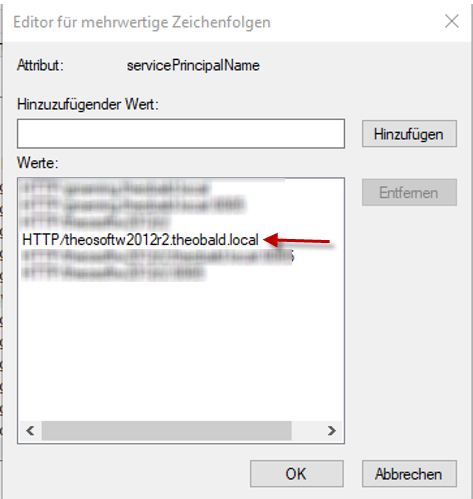
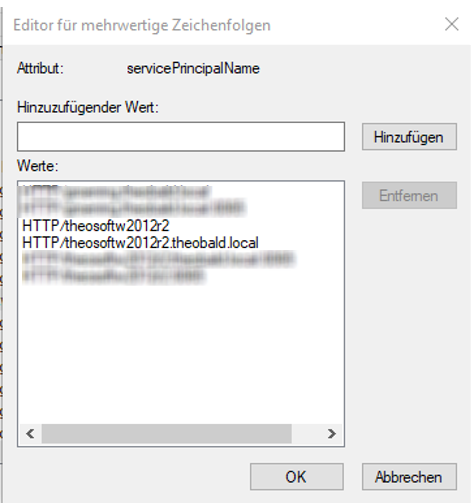
XU:DE:Fortgeschrittene Techniken...SSO.

diff --git a/content/_de/xtract-universal/fortgeschrittene-techniken/SAP-Single-Sign-On/SSO mit SNC.md b/content/_de/xtract-universal/fortgeschrittene-techniken/SAP-Single-Sign-On/SSO mit SNC.md
@@ -20,11 +20,12 @@ Die hier beschriebenen Schritte setzen voraus, dass des SAP-Applikationsserver u
 2. Anlegen eines AD Service Accounts, unter dem der Xtract Universal Service läuft.
 3. Notwendige Einstellungen auf dem Server, auf dem der Xtract Universal Server läuft.
 4. Notwendige Einstellungen in Xtract Universal.
-5. Einstellungen auf SAP-Seite.
+5. Notwendige Einstellungen auf SAP-Seite.
 
 
 **Zu 1: Aktivierung von SSL in Xtract Universal**
-Diese Einstellung hat erstmal nicht direkt mit dem Einrichten von SSO zu tun, ist allerdings Voraussetzung dafür. SSO funktioniert nur, sofern der Extraktionsaufruf per https erfolgt. Hierfür muss ein SSL-Zertifikat in Xtract Universal bekannt gemacht werden.
+
+Diese Einstellung hat erstmal nichts direkt mit dem Einrichten von SSO zu tun, ist allerdings Voraussetzung dafür. SSO funktioniert nur, sofern der Extraktionsaufruf per https erfolgt. Hierfür muss ein SSL-Zertifikat in Xtract Universal bekannt gemacht werden.
 
 1. Lassen Sie ein TLS Zertifikat (X.509) von Ihrem IT Netzwerk Team erstellen. In der Zertifikatseigenschaft "Subject Alternative Name" muss der DNS Name des Servers stehen, auf dem der Xtract Universal Windows Dienst läuft. Ansonsten erscheint das Zertifikat später nicht im Lookup Dialog von Xtract Universal.
 2. Hinterlegen Sie das Zertifikat im Windows Certificate Store auf dem XU Server.
@@ -33,15 +34,15 @@ Diese Einstellung hat erstmal nicht direkt mit dem Einrichten von SSO zu tun, is
 ![XU_WebServerSettings_https](/img/content/XU_Server_Settings_Webserver_HTTPS.png){:class="img-responsive"}
 
 
-**Zu 2.  Anlegen eines AD Service Accounts**
+**Zu 2: Anlegen eines AD Service Accounts**
 
-Legen Sie einen Windows AD Service Account an. Das ist der Account, unter dem der Xtract Universal Service läuft.
+Legen Sie einen Windows AD Service Account an. Das ist der Account, unter dem der Xtract Universal Service läuft (XU Service Account).
 
 Konfigurieren Sie den Account für *Constrained Delegation*. Im folgenden Screenshot ist *SAPServiceERP* der Windows Account, unter dem der SAP-Applikationsserver läuft.
-![XU_SSO_WinAD_SPN](/img/content/XU_SSO_WinAD_SPN.png){:class="img-responsive"}
+![XU_SSO_WinAD_SPN](/img/content/XU_SSO_WinAD_Delegation.png){:class="img-responsive"}
 
 
-Definieren Sie einen oder mehrere *Service Principal Names (SPN)* in der Notation HTTP/[XU FQDN host name]
+Definieren Sie zwei *Service Principal Names (SPN)* in der Notation *HTTP/[XU FQDN host name]* und *HTTP/[XU host name]*
 ![XU_SSO_WinAD_SPN](/img/content/XU_SSO_WinAD_SPN.png){:class="img-responsive"}
 
 
@@ -49,15 +50,22 @@ Definieren Sie einen oder mehrere *Service Principal Names (SPN)* in der Notatio
 ![XU_ServiceAccount](/img/content/XU_Service_Account.png){:class="img-responsive"}
 
 
+**Zu 3: Notwendige Einstellungen auf dem Xtract Universal Server**
+
+* Kerberos Library auf Laufwerk kopieren
+* Hinzufügen des XU Service Account zur Local Admin Gruppe (*compmgmt.msc*)
+* Einstellungen für den XU Service Account in der Local Security Policy (*secpol.msc*)
 
 
 
+*Kerberos Wrapper Library*: Die relevante dll-Datei befindet sich als Anhang im [SAP Hinweis 2115486](https://launchpad.support.sap.com/#/notes/2115486). Wir gehen davon aus, dass Sie den Xtract Universal Service auf einem 64bit Betriebssystem betreiben. Bitte laden Sie daher die *gx64krb5.dll* herunter.
 
-**Die Kerberos Wrapper Library herunterladen**
+Legen Sie diese in einem beliebigen Verzeichnis, z.B. *C:\SNC\gx64krb5.dll*, des Rechners ab, auf dem der Xtract Universal Server läuft bzw. die SAP-Verbindung stattfindet.
+Legen Sie die Datei ebenfalls auf jedem Rechner, auf dem der Xtract Universal Designer genutzt wird, in dem selben Verzeichnis ab.  
 
-Die relevanten dll-Dateien befindet sich als Anhang im [SAP Hinweis 2115486](https://launchpad.support.sap.com/#/notes/2115486). Bitte laden Sie diese herunter und legen Sie diese in einem beliebigen Ordner des Rechners ab, auf dem der Xtract Universal Server läuft bzw. die SAP-Verbindung stattfindet. Innerhalb von Xtract Universal können Sie dann in den Settings zur SAP Source auf den Ordner verweisen, in dem Sie die dll abgelegt haben. Es gibt für 32-Bit und 64-Bit Plattformen zwei unterschiedliche Versionen der Kerberos Wrapper Library:  
 
-- Für 32-Bit: gsskrb5.dll 
-- Für 64-Bit x86: gx64krb5.dll 
+*XU Service Account als Local Admin*: Fügen Sie den XU Service Account zur Local Admin-Gruppe hinzu.
 
+*Local Security Policy für XU Service Account*: Fügen Sie unter *Local Policies* - *User Rights Assignment* den Service Account bei *Act as part of the operating system* und *Impersonate a client after authentication* hinzu. 
+![XU_SSO_LocSecPol](/img/content/XU_SSO_LocSecPol.png){:class="img-responsive"}
 
